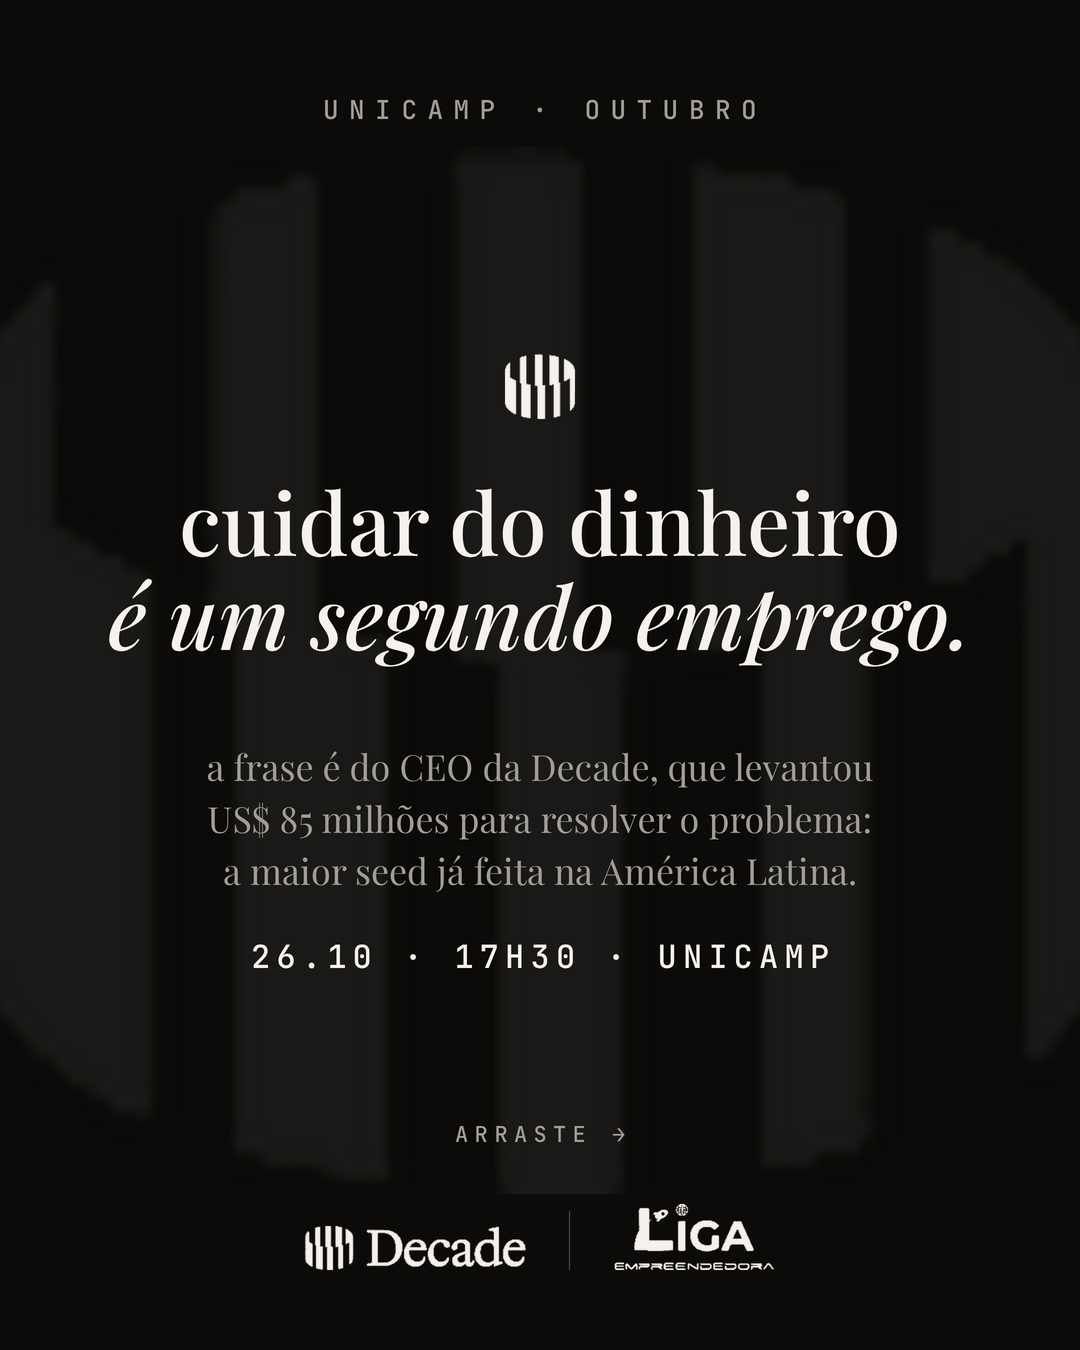
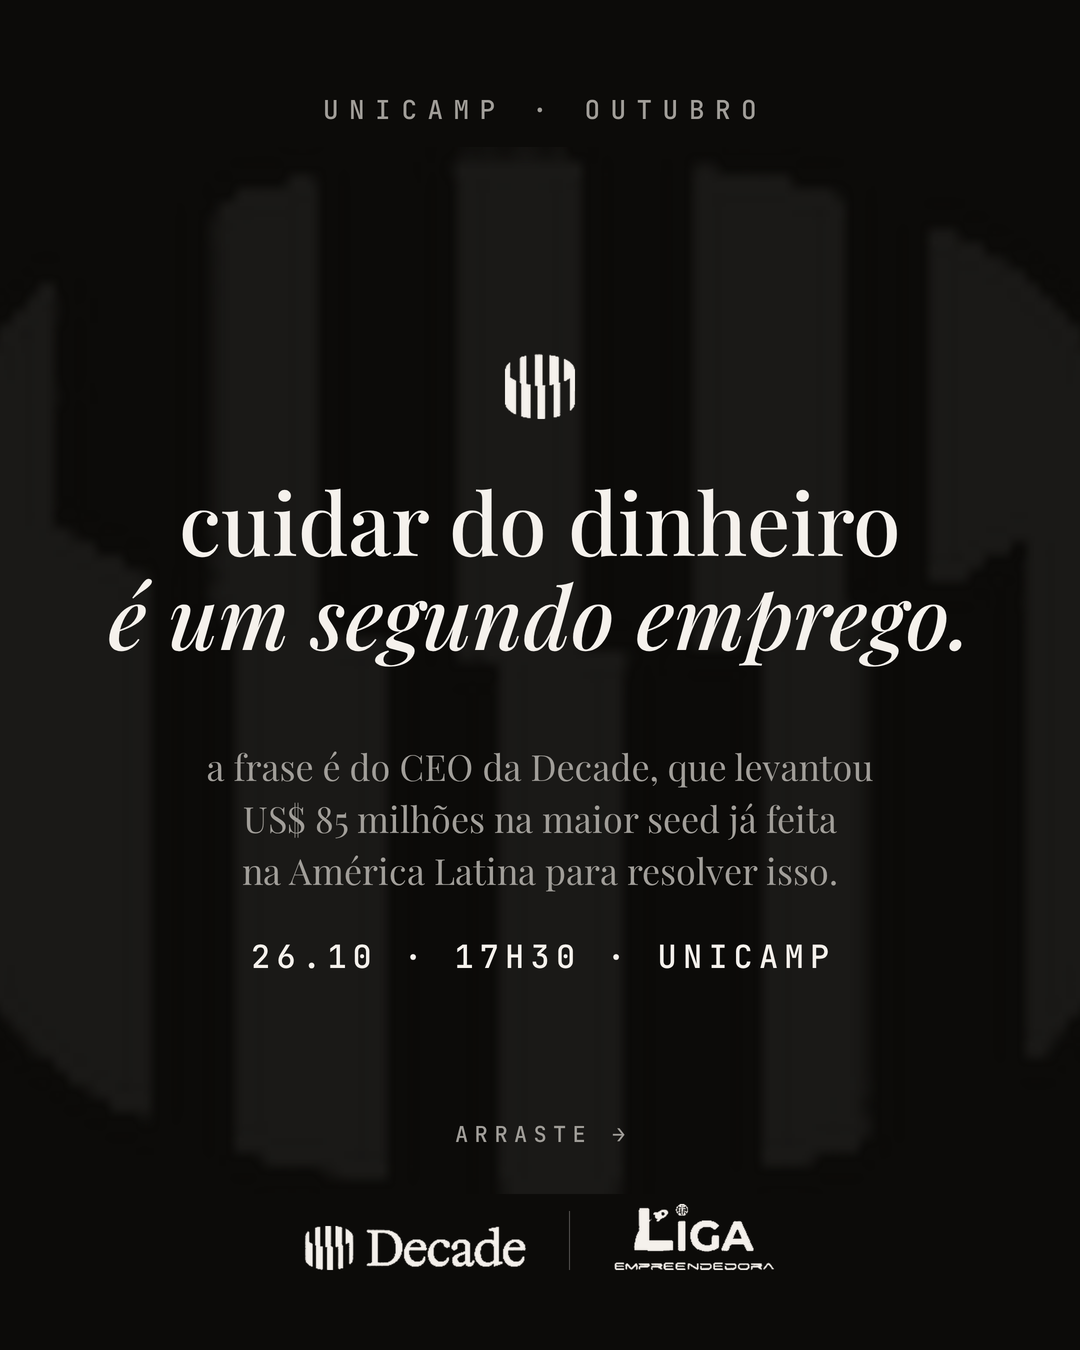
Remodela as frases da copy sem dois-pontos
O usuario nao gostou do uso de dois-pontos. Tres campos da copy usavam o
sinal como conector, e foram reescritos com conectivo em vez de apagados:

  capa    "US$ 85 milhoes para resolver o problema: a maior seed ja feita
          na America Latina"
          virou
          "US$ 85 milhoes na maior seed ja feita na America Latina para
          resolver isso"

  tela 02 "por assinatura, nao por comissao: sem conflito de interesse"
          virou
          "cobram assinatura, nao comissao, entao nao ha conflito de
          interesse"

Tambem tirei os dois-pontos que eu mesmo havia usado como conector na
prosa do README e do steering, trocando por "porque", "e" ou ponto. Os que
sobraram sao estruturais, como rotulo de lista, introducao de bloco de
codigo e chave de JSON, onde o sinal e necessario.

Auditoria final da copy das tres configuracoes: zero dois-pontos e zero
travessoes. As folgas entre blocos subiram para 52 a 62 px, porque as
frases novas ficaram uma linha mais curtas em dois casos.

Changed region(s): [[0.1833, 0.5911, 0.7944, 0.6533]]

diff --git a/post3/README.md b/post3/README.md
@@ -9,7 +9,7 @@ Quatro variações em `out/`, 1080×1350 (4:5), **monocromáticas estritas**.
 | `v3-contagem-claro.png` | "faltam vinte dias." | off-white | ⚠ Conteúdo datado, válido só em 06.10 |
 | `v4-cta-claro.png` | "as inscrições estão abertas." + faixa de CTA | off-white | Faixa com 70% da largura, igual à do Post 2 |
 
-Cada peça tem três saídas: `.png` (1080×1350), `.jpg` (qualidade 95, sem subamostragem
+Cada peça tem três saídas, que são `.png` (1080×1350), `.jpg` (qualidade 95, sem subamostragem
 de croma, que preserva a serifada fina) e `@2x.png` (2160×2700, para reaproveitar em impresso).
 
 ---
@@ -20,7 +20,7 @@ Modelo de imagem erra acentuação em português, distorce o símbolo e introduz
 cada peça é HTML/CSS renderizado em Chromium headless com supersampling 2×, então:
 
 - os hex saem exatamente como o manual especifica;
-- o texto é texto de verdade: "inscrições", "está", "construído" sem deformação;
+- o texto é texto de verdade, com "inscrições", "está" e "construído" sem deformação;
 - o símbolo e os lockups são **recortados das peças originais**, não redesenhados.
 
 ## Conformidade com o manual
@@ -56,7 +56,7 @@ para 1080×1350 pelo fator 0.84375:
 | Peça escura: texto | `#F4F1ED` | Off-white |
 
 **O motivo do fundo é o próprio símbolo ampliado.** Descobri isso amplificando o contraste
-do fundo 8×: a silhueta é a mesma elipse de barras. Busca de encaixe confirmou:
+do fundo 8×, e a silhueta é a mesma elipse de barras. Busca de encaixe confirmou:
 escala 1480×1370 no offset (−100, 110) sobre 1280×1600, **IoU = 0.914**. Usar o símbolo
 como fonte do motivo elimina os artefatos que a extração tonal deixava onde havia texto.
 
@@ -107,7 +107,7 @@ Para trocar copy, edite o JSON correspondente. O campo `headline` aceita `<br>` 
 
 ## Resolução dos ativos de marca
 
-O símbolo e os lockups não existem como arquivo: foram recortados das duas peças
+O símbolo e os lockups não existem como arquivo. Foram recortados das duas peças
 publicadas. Isso impõe um teto de qualidade, e o caminho até o resultado atual descartou
 duas abordagens que pareciam boas:
 
@@ -171,7 +171,7 @@ monocromática. Visão geral em `carrossel/contato-4-telas.png`.
 
 A primeira versão da copy era descritiva ("o que é a Decade", "a sua vida financeira num
 só lugar") e chamava pouca atenção. A reescrita mudou a fonte do apelo, não o registro
-tipográfico: o manual define a Decade como sóbria e editorial, sem cor de acento (p.2 e
+tipográfico, porque o manual define a Decade como sóbria e editorial, sem cor de acento (p.2 e
 p.4), então gritar no estilo quebraria a marca. O apelo vem do conteúdo.
 
 | Tela | Recurso |
@@ -182,7 +182,7 @@ p.4), então gritar no estilo quebraria a marca. O apelo vem do conteúdo.
 | 04 | Fecho com promessa e atrito baixo: a história inteira, ao vivo, coffee break incluso |
 
 Se o time quiser copy e arte francamente mais agressivas, o próprio manual abre essa porta
-em outro lugar: pela p.6, peça de mobilização de campus é **liderada pela Liga**, e aí
+em outro lugar, porque pela p.6 a peça de mobilização de campus é **liderada pela Liga**, e aí
 Anton e o amarelo estão liberados. Na arte oficial do evento, quem lidera é a Decade, e o
 teto de energia é este.
 
@@ -197,14 +197,15 @@ porque p.5 trata a segunda marca como assinatura de rodapé.
 
 ### Por que quatro e não três
 
-Três telas exigiriam juntar fundadores e convite numa só. Isso foi testado e medido: a
+Três telas exigiriam juntar fundadores e convite numa só. Isso foi testado e medido, e a
 faixa de CTA passa a **encobrir** a última linha das credenciais do Felipe Meneses, e a
 folga mínima entre blocos cai para **13 px**, contra os 106 a 204 px que o Post 1 mantém.
 A respiração generosa é justamente o que define a estética sóbria da Decade, e o manual
 p.5 pede área de proteção generosa, então comprimir a esse ponto sairia da identidade.
 
 Com quatro telas, "o que fazem" e "como fazem" entram juntos na tela 02, o que funciona
-porque são a mesma ideia vista de dois ângulos: o que a plataforma faz e como ela cobra.
+porque são a mesma ideia vista por dois ângulos, um sendo o que a plataforma faz e o
+outro como ela cobra.
 
 ## Peças avulsas
 

diff --git a/.kiro/steering/evento-decade.md b/.kiro/steering/evento-decade.md
@@ -22,7 +22,7 @@ referência de cor, só de composição.
 ## Paleta Decade
 
 Preto `#000000` · Off-white `#F5F1EC` · Cinza claro `#A19E99` · Cinza médio `#514F4D` ·
-Grafite `#343332`. **Sem cor de acento**: é a ausência de cor vibrante que dá a sobriedade
+Grafite `#343332`. **Sem cor de acento**, porque é a ausência de cor vibrante que dá a sobriedade
 da marca.
 
 Tons medidos nas peças reais: título `#040303`, corpo e kicker `#504D48`, motivo de barras
@@ -30,9 +30,9 @@ do fundo `#E9E5E0`; na versão escura, fundo `#0C0B09`, texto `#F4F1ED`, barras 
 
 ## Quem lidera cada peça
 
-Arte oficial do evento e comunicação institucional: **Decade lidera**, serifada no título,
+Na arte oficial do evento e na comunicação institucional a **Decade lidera**, com serifada no título,
 mono nos dados, Liga como assinatura de rodapé. Peças de mobilização de campus (stories,
-panfleto, reels): Liga lidera, e aí o amarelo e a Anton são liberados.
+panfleto, reels), a Liga lidera, e aí o amarelo e a Anton são liberados.
 
 ## Fundadores da Decade
 
